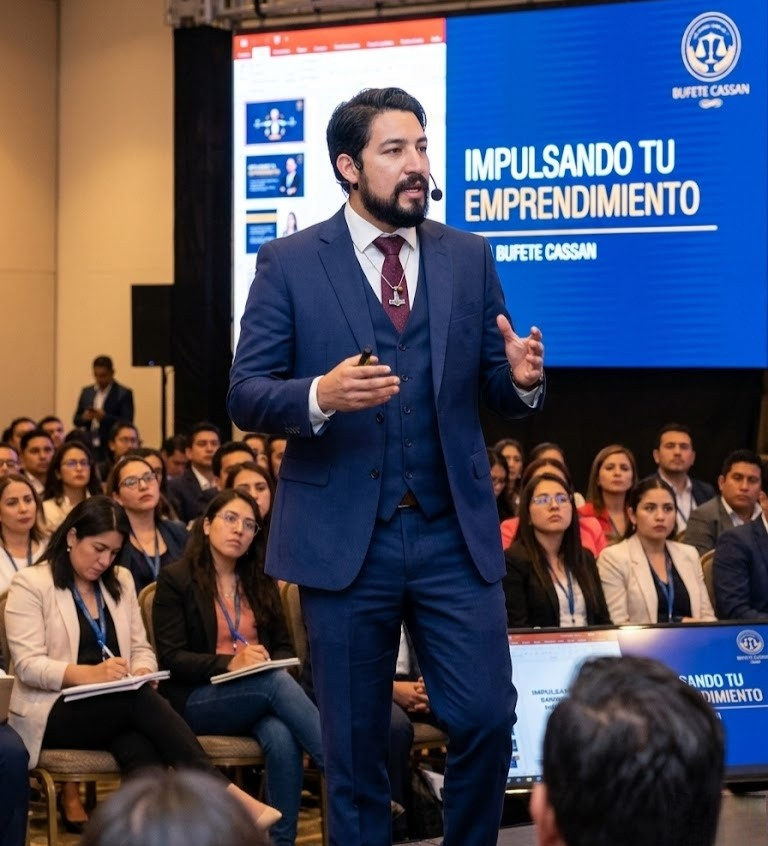
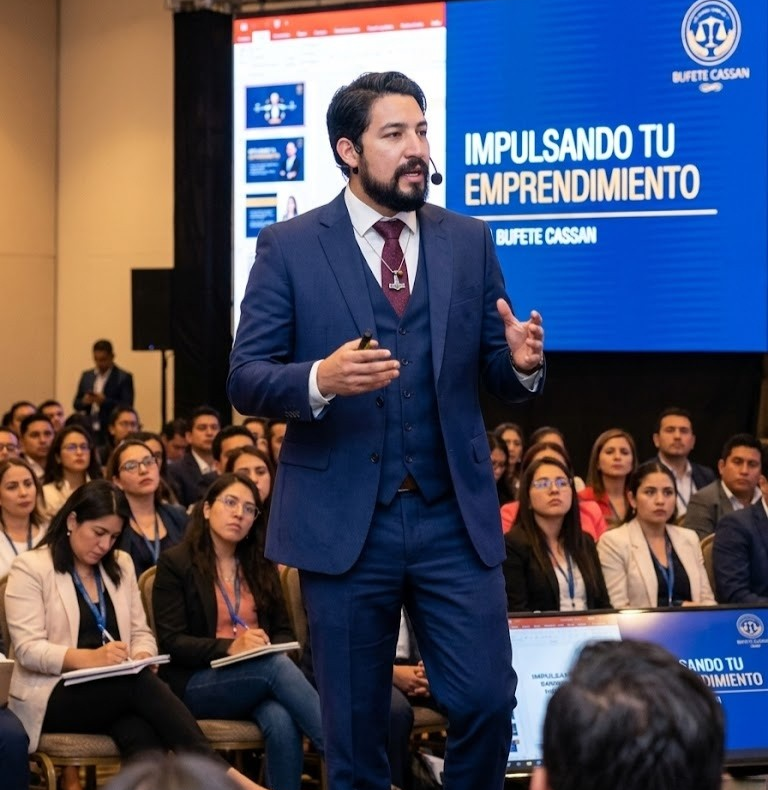
Add all requested carousel images + revert carousel styles to height:auto

diff --git a/css/animations.css b/css/animations.css
@@ -1525,18 +1525,18 @@ header .logo img {
 }
 
 .nexo-carousel-slide {
-    position: relative !important;
-    width: 100% !important;       /* ancho fijo igual al wrapper */
-    min-width: 100% !important;   /* nunca se encoge */
-    flex-shrink: 0 !important;
-    height: 500px !important; /* Fixed height for all slides */
+    position: relative;
+    width: 100%;       /* ancho fijo igual al wrapper */
+    min-width: 100%;   /* nunca se encoge */
+    flex-shrink: 0;
+    height: auto;
 }
 
 .nexo-carousel-slide img {
-    width: 100% !important;
-    height: 100% !important;
-    object-fit: cover !important;
-    display: block !important;
+    width: 100%;
+    height: auto;
+    object-fit: cover;
+    display: block;
     animation: none !important;
     float: none !important;
     transform: none !important;

diff --git a/index.html b/index.html
@@ -3010,7 +3010,7 @@
                                                                 <div class="nexo-carousel-track-wrapper">
                                                                     <div class="nexo-carousel-track">
                                                                         <div class="nexo-carousel-slide">
-                                                                            <img src="images/Carousel/JazaelAbogado.png" alt="Jazael Abogado" loading="lazy" style="width: 100%; height: auto;">
+                                                                            <img src="images/Carousel/JazaelHorizontalPC.png" alt="Jazael Abogado" loading="lazy" style="width: 100%; height: auto;">
                                                                         </div>
                                                                         <div class="nexo-carousel-slide">
                                                                             <img src="images/galeriaAsesoria1.png" alt="Asesoría" loading="lazy" style="width: 100%; height: auto;">
@@ -3029,6 +3029,21 @@
                                                                         </div>
                                                                         <div class="nexo-carousel-slide">
                                                                             <img src="images/galeriaConsultoria6.png" alt="Consultoría" loading="lazy" style="width: 100%; height: auto;">
+                                                                        </div>
+                                                                        <div class="nexo-carousel-slide">
+                                                                            <img src="images/Carousel/TalleresPracticos.png" alt="Talleres Prácticos" loading="lazy" style="width: 100%; height: auto;">
+                                                                        </div>
+                                                                        <div class="nexo-carousel-slide">
+                                                                            <img src="images/Carousel/AsesoriasAcompaniamiento.png" alt="Asesorías y Acompañamiento" loading="lazy" style="width: 100%; height: auto;">
+                                                                        </div>
+                                                                        <div class="nexo-carousel-slide">
+                                                                            <img src="images/Carousel/CapacitacionAgricola.png" alt="Capacitación Agrícola" loading="lazy" style="width: 100%; height: auto;">
+                                                                        </div>
+                                                                        <div class="nexo-carousel-slide">
+                                                                            <img src="images/Carousel/CapacitacionPymes.png" alt="Capacitación PYMES" loading="lazy" style="width: 100%; height: auto;">
+                                                                        </div>
+                                                                        <div class="nexo-carousel-slide">
+                                                                            <img src="images/Carousel/Compras.png" alt="Compras y Logística" loading="lazy" style="width: 100%; height: auto;">
                                                                         </div>
                                                                     </div>
                                                                 </div>